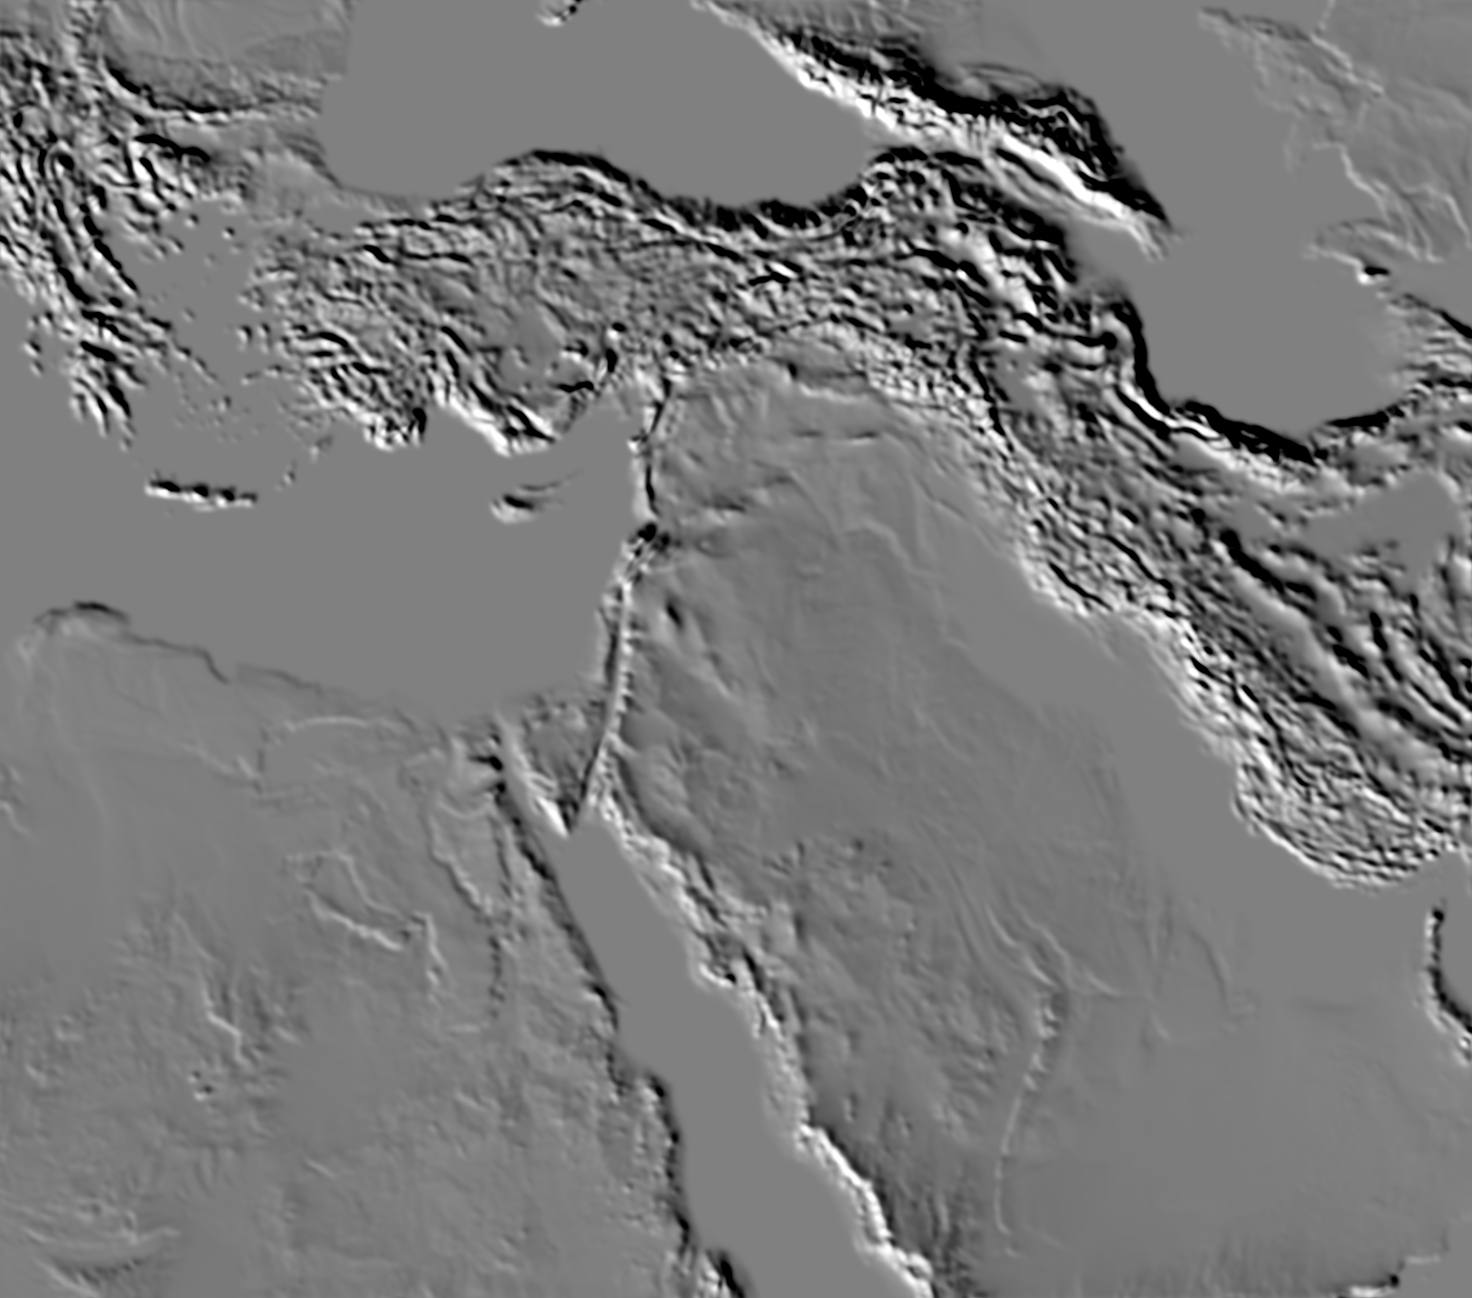
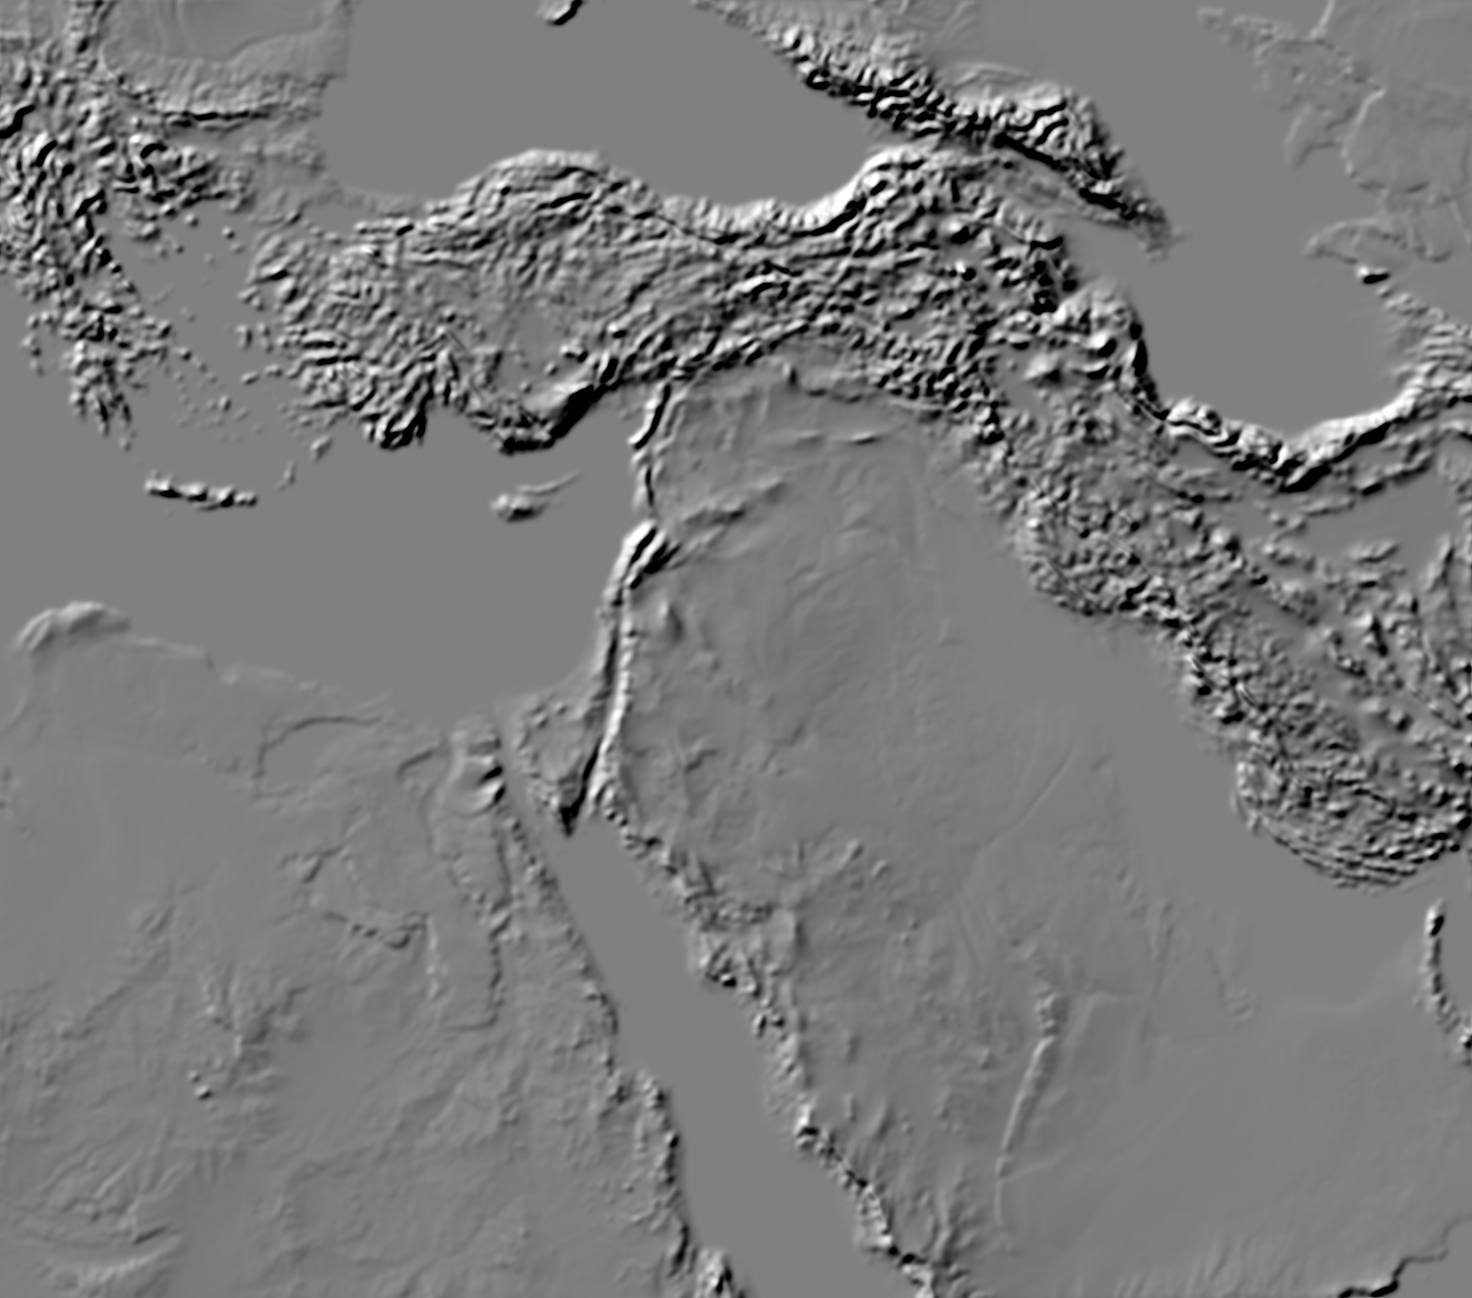
Item 11c++: the review's fixes: news side by side, one layout for placement, light from the north-west, borders kept close to their land, the test in a seat's view and asserting that badges return
Claude-Session: https://claude.ai/code/session_01Y3BQG44YBdj1WtqPYQNRkC

diff --git a/src/web/src/map/svg-renderer.ts b/src/web/src/map/svg-renderer.ts
@@ -350,14 +350,18 @@ function peopleAtCourts(input: MapInput): string {
     if (list.length > 6) sb += `<g class="person-more"><text class="chip-more" x="-8" y="48" text-anchor="middle">+${list.length - 6}</text></g>`;
     sb += "</g></g></g>";
   }
+  // Each piece of news in a province beside the one before it.
+  const newsIndex = new Map<string, number>();
   for (const n of s.news) {
     const at = city(n.province);
+    const nth = newsIndex.get(n.province) ?? 0;
+    newsIndex.set(n.province, nth + 1);
     const report = n.kind === "SpyReport";
     sb += `<g class="news age${Math.min(n.age, 4)} ${report ? "report" : "rumor"}" data-court="${n.province}" transform="translate(${F(at.x)},${F(at.y)})">`;
     sb += title(`${n.title} (${report ? `observed in ${dateLabel(n.observed, s.viewer)}` : `heard in ${dateLabel(Math.max(1, s.index + 1 - n.age), s.viewer)}`}): ${n.body}`);
-    sb += `<g class="nring" style="--ring:${ringAt(n.province)}"><g class="sym"><path class="news-bg" d="M-1,-7H17V5H10L6,9V5H-1Z"/>`;
+    sb += `<g class="nring" style="--ring:${ringAt(n.province)}"><g class="sym"><g transform="translate(${nth * 21},0)"><path class="news-bg" d="M-1,-7H17V5H10L6,9V5H-1Z"/>`;
     sb += report ? `<use href="#g-eye" class="news-icon" x="2" y="-7" width="12" height="12"/>` : `<g><text class="news-q" x="8" y="3">?</text></g>`;
-    sb += "</g></g></g>";
+    sb += "</g></g></g></g>";
   }
   return sb;
 }
@@ -577,9 +581,12 @@ export class SvgMapRenderer implements MapRenderer {
     if (want === this.fine) return;
     this.fine = want;
     if (want) {
-      void import("./fine-geo.ts").then(({ Fine }) => {
-        if (this.fine && this.view === view) this.swapGeography({ ...Fine.coasts, lakes: Fine.lakes }, Fine.rivers);
-      });
+      import("./fine-geo.ts")
+        .then(({ Fine }) => {
+          if (this.fine && this.view === view) this.swapGeography({ ...Fine.coasts, lakes: Fine.lakes }, Fine.rivers);
+        })
+        // Not loaded (offline before the cache had it): the board's own stay, and the next zoom tries again.
+        .catch(() => (this.fine = false));
     } else this.swapGeography({ land: LandPath, mainland: MainlandPath, island: IslandPath, coast: CoastPath, sea: SeaPath, lakes: LakePath }, null);
   }
 
@@ -622,7 +629,8 @@ export class SvgMapRenderer implements MapRenderer {
       this.placing = 0;
       const view = this.view;
       if (view === null) return;
-      // Everything shown again, then measured in one go, then given way: one layout, however many markers.
+      // Everything shown again, then all measured in one go, then given way in one batch of class changes: one layout,
+      // however many markers (writing a class between two measures would force a layout each time).
       view.querySelectorAll(".map .small, .map .off").forEach((e) => e.classList.remove("small", "crowd", "off"));
       const rects = (e: Element, sel: string): DOMRect[] =>
         [...e.querySelectorAll(sel)].map((x) => x.getBoundingClientRect()).filter((r) => r.width > 0 && r.height > 0);
@@ -636,69 +644,75 @@ export class SvgMapRenderer implements MapRenderer {
       };
       const units = byProvince(".map-upper .unit[data-province]");
       const courts = byProvince(".map-upper .court-at[data-court], .map-upper .news[data-court]");
+      const cities = new Map<string, SVGGElement>();
+      view.querySelectorAll<SVGGElement>(".cities .city").forEach((c) => cities.set(c.dataset.province ?? "", c));
+      // Measured: each city's badge, seal and own markers; then the lesser markers; then the names.
+      const cityRects = NameOrder.filter((id) => cities.has(id)).map((id) => {
+        const c = cities.get(id)!;
+        return {
+          id,
+          c,
+          badge: rects(c, ".seal, .walls, .cap-ring"),
+          seal: c.querySelector(".seal")?.getBoundingClientRect(),
+          rest: [
+            ...(units.get(id) ?? []).flatMap((u) => rects(u, ":scope > .sym")),
+            ...(courts.get(id) ?? []).flatMap((e) => rects(e, ".person, .person-more, .news-bg")),
+          ],
+        };
+      });
+      // The traveller or person being followed comes first; then, after the cities, the fleets at sea and the counters of
+      // provinces with no city drawn, the units destroyed, the travellers, and the marks of the crossings.
+      const followed = [...view.querySelectorAll(".map-upper .traveller.followed")].map((e) => ({ e, rs: rects(e, ":scope > .sym") }));
+      const lesser = [
+        ...[...units].filter(([id]) => !cities.has(id)).flatMap(([, es]) => es.map((e) => [e, ":scope > .sym"] as const)),
+        ...[...view.querySelectorAll(".map-upper .destroyed")].map((e) => [e, ":scope > .sym"] as const),
+        ...[...view.querySelectorAll(".map-upper .traveller:not(.followed)")].map((e) => [e, ":scope > .sym"] as const),
+        ...[...view.querySelectorAll(".xmarks .xmark")].map((e) => [e, ".xm-bg"] as const),
+      ].map(([e, sel]) => ({ e, rs: rects(e, sel) }));
+      const names = NameOrder.map((id) => this.labels.get(id)?.querySelector("text"))
+        .filter((t): t is SVGTextElement => t !== null && t !== undefined)
+        .map((t) => ({ t, own: t.closest("[data-label]")?.getAttribute("data-label") ?? null, r: t.getBoundingClientRect() }));
+      const geo = [...view.querySelectorAll<SVGTextElement>(".base text.geo")].map((t) => ({ t, own: null, r: t.getBoundingClientRect() }));
+
       const placed: { r: DOMRect; own: string | null }[] = [];
       const touch = (a: DOMRect, b: DOMRect): boolean => a.left < b.right && b.left < a.right && a.top < b.bottom && b.top < a.bottom;
       const free = (rs: readonly DOMRect[]): boolean => rs.every((r) => !placed.some((o) => touch(r, o.r)));
       const place = (rs: readonly DOMRect[], own: string | null): void => rs.forEach((r) => placed.push({ r, own }));
-      const cities = new Map<string, SVGGElement>();
-      view.querySelectorAll<SVGGElement>(".cities .city").forEach((c) => cities.set(c.dataset.province ?? "", c));
-      const ownRects = (id: string): DOMRect[] => [
-        ...(units.get(id) ?? []).flatMap((u) => rects(u, ":scope > .sym")),
-        ...(courts.get(id) ?? []).flatMap((c) => rects(c, ".person, .person-more, .news-bg")),
-      ];
-      for (const id of NameOrder) {
-        const c = cities.get(id);
-        if (c === undefined) continue;
-        const badge = rects(c, ".seal, .walls, .cap-ring");
-        const rest = ownRects(id);
-        if (free(badge) && free(rest)) {
+      const writes: (() => void)[] = [];
+      for (const f of followed) place(f.rs, null);
+      for (const { id, c, badge, seal, rest } of cityRects) {
+        // A city's own markers must not touch each other either (two pieces of news, say).
+        const own = rest.every((r, i) => !rest.slice(i + 1).some((o) => touch(r, o)));
+        if (own && free(badge) && free(rest)) {
           place(badge, id);
           place(rest, null);
           continue;
         }
-        // The small seal: the seal's own centre, at the size the stylesheet shrinks it to (.city.small, map-uncluttered.css).
-        const seal = c.querySelector(".seal")?.getBoundingClientRect();
-        for (const e of [...(units.get(id) ?? []), ...(courts.get(id) ?? [])]) e.classList.add("off");
+        for (const e of [...(units.get(id) ?? []), ...(courts.get(id) ?? [])]) writes.push(() => e.classList.add("off"));
         if (seal === undefined) continue;
+        // The small seal: the seal's own centre, at the size the stylesheet shrinks it to (.city.small, map-uncluttered.css).
         const k = SmallSeal / 2;
         const small = new DOMRect(seal.x + seal.width * (0.5 - k), seal.y + seal.height * (0.5 - k), seal.width * 2 * k, seal.height * 2 * k);
         if (free([small])) {
           // A small seal whose counters gave way says so by its darker rim.
-          c.classList.add("small");
-          c.classList.toggle("crowd", (units.get(id) ?? []).length > 0);
+          const crowd = (units.get(id) ?? []).length > 0;
+          writes.push(() => c.classList.add("small", ...(crowd ? ["crowd"] : [])));
           place([small], id);
-        } else c.classList.add("off");
+        } else writes.push(() => c.classList.add("off"));
       }
-      // The fleets at sea and the counters of provinces with no city drawn, then the rest, least important last.
-      const lesser = [
-        ...[...units].filter(([id]) => !cities.has(id)).flatMap(([, es]) => es.map((e) => [e, ":scope > .sym"] as const)),
-        ...[...view.querySelectorAll(".map-upper .destroyed")].map((e) => [e, ":scope > .sym"] as const),
-        ...[...view.querySelectorAll(".map-upper .traveller")].map((e) => [e, ":scope > .sym"] as const),
-        ...[...view.querySelectorAll(".xmarks .xmark")].map((e) => [e, ".xm-bg"] as const),
-      ];
-      for (const [e, sel] of lesser) {
-        const rs = rects(e, sel);
+      for (const { e, rs } of lesser) {
         if (free(rs)) place(rs, null);
-        else e.classList.add("off");
+        else writes.push(() => e.classList.add("off"));
       }
+      // The names: each where it touches no name shown and no marker (its own city's badge it may sit beside); the names
+      // of the land (rivers, ranges, deserts, the lands beyond) last.
       const shown: DOMRect[] = [];
-      const clear = (r: DOMRect, id: string | null): boolean => !shown.some((o) => touch(r, o)) && !placed.some((o) => (id === null || o.own !== id) && touch(r, o.r));
-      for (const id of NameOrder) {
-        const text = this.labels.get(id)?.querySelector("text");
-        if (text === null || text === undefined) continue;
-        const r = text.getBoundingClientRect();
-        // Its own city's badge a name may sit beside, but not its own counters, people or news.
-        const ok = clear(r, id);
-        text.classList.toggle("off", !ok);
+      for (const { t, own, r } of [...names, ...geo]) {
+        const ok = !shown.some((o) => touch(r, o)) && !placed.some((o) => (own === null || o.own !== own) && touch(r, o.r));
         if (ok) shown.push(r);
+        else writes.push(() => t.classList.add("off"));
       }
-      // The names of the land (rivers, ranges, deserts, the lands beyond) give way last, to all of the above.
-      view.querySelectorAll<SVGTextElement>(".base text.geo").forEach((text) => {
-        const r = text.getBoundingClientRect();
-        const ok = clear(r, null);
-        text.classList.toggle("off", !ok);
-        if (ok) shown.push(r);
-      });
+      for (const w of writes) w();
     });
   }
 

diff --git a/src/web/src/map/art.ts b/src/web/src/map/art.ts
@@ -281,7 +281,18 @@ export function naturalLine(pts: readonly Pt[], tolerance = 0.45, rounds = 3): P
       stack.push([i, worst], [worst, j]);
     }
   }
-  let line = pts.filter((_, k) => keep[k] === 1);
+  // Long straight runs cut into pieces of at most two units first, so rounding a corner never pulls the line more than
+  // about half a unit off the land it was traced along.
+  let line: Pt[] = [];
+  const kept = pts.filter((_, k) => keep[k] === 1);
+  kept.forEach((p, k) => {
+    if (k > 0) {
+      const d = sub(p, kept[k - 1]);
+      const n = Math.ceil(len(d) / 2);
+      for (let i = 1; i < n; i++) line.push(add(kept[k - 1], mul(d, i / n)));
+    }
+    line.push(p);
+  });
   for (let r = 0; r < rounds && line.length >= 3; r++) {
     const next: Pt[] = [line[0]];
     for (let k = 0; k < line.length - 1; k++) {
@@ -296,7 +307,9 @@ export function naturalLine(pts: readonly Pt[], tolerance = 0.45, rounds = 3): P
   return line;
 }
 
-const Arcs: readonly Pt[][] = BorderArcs.map((s) => naturalLine(decodeFine(s)));
+/** Whether a line lies wholly off the board (the frame's corners, which no one sees and smoothing would only pull in). */
+const offBoard = (pts: readonly Pt[]): boolean => pts.every((p) => p.x <= 0 || p.y <= 0 || p.x >= Width || p.y >= Height);
+const Arcs: readonly Pt[][] = BorderArcs.map(decodeFine).map((a) => (offBoard(a) ? a : naturalLine(a)));
 /** A ring of the traced borders, its arcs joined in order. */
 function ringOf(refs: readonly number[]): Pt[] {
   const pts: Pt[] = [];

diff --git a/src/web/src/styles/map-uncluttered.css b/src/web/src/styles/map-uncluttered.css
@@ -16,3 +16,5 @@
 .map .reed { stroke: var(--river); stroke-width: .7; stroke-linecap: round; fill: none; }
 .legend .lg-lit { fill: #f3ead6; } .legend .lg-shade { fill: #8a7457; }
 .legend .crowd-lg { stroke: var(--ink); stroke-width: 2; stroke-dasharray: none; }
+/* A besieged city keeps its siege's colour as a small seal. */
+.map .city.small.besieged .seal { stroke: var(--blood, #9b2c1f); stroke-width: 4.5; stroke-dasharray: none; }

diff --git a/docs/rounds/2026-10-29-map-uncluttered.md b/docs/rounds/2026-10-29-map-uncluttered.md
@@ -25,8 +25,8 @@ revision 108, at the start and again before the PR was readied: none.
    markers never touch each other.
 2. **The phone opens a step closer on the Levant** (6.7x, from 4.2x).
 3. **The test grows**: the smoke test fails if any marker shown touches another, besides the names, at 390 and 1280
-   pixels, at all eight zoom steps, at the opening and four seasons in. It passed (twice, the second time with all parts
-   of the item in).
+   pixels, at all eight zoom steps, at the opening, four seasons in and in a seat's view (its news, ghosts and believed
+   people drawn), and fails if zooming in does not bring the badges and counters back.
 4. **Borders as natural lines**: each traced border simplified past its grid's steps and its corners rounded, ends fixed.
 5. **Relief from real elevation**, soft shading in place of the hand-placed chevrons (115 KB).
 6. **Every river that mattered from real data**: Natural Earth's where it has them (now with Anatolia's Hermos, Kaystros,
@@ -69,6 +69,19 @@ Each with the principle it rests on ("Reason from the pillars").
    glance.)
 10. **The ridges the border tracer follows (`RangeLines`) stay**: they lie along the relief now drawn, and changing them
     would move borders without a source. (Borders and crossings follow the same land; item 11f's lane owns crossings.)
+
+11. **A season's capture ring is an overlay, not a marker**: it flashes once round the city that changed hands and may
+    cross that city's counters for that season, as a highlight does. (The map read at a glance: the event is the point.)
+12. **The traveller or person being followed is placed first**, so following someone never hides them. (The player asked
+    to see them.)
+13. **Each piece of news in a province stands beside the one before** (a rumour and a spy's report can share one).
+
+## First guesses (drawing only, none tunes the game)
+
+The small seal at 45 percent of the full seal; the fine geography past 6x and back below 4.5x; borders simplified at
+0.45 board units, cut into runs of at most 2 units and rounded three times; the relief at a pixel a board unit, three box
+blurs of two pixels, lit from the north-west at 40 degrees, heights exaggerated nine times; the fine set's tolerance a
+twentieth of a board unit; the river traces simplified at 0.006 degrees.
 
 ## Measured
 
